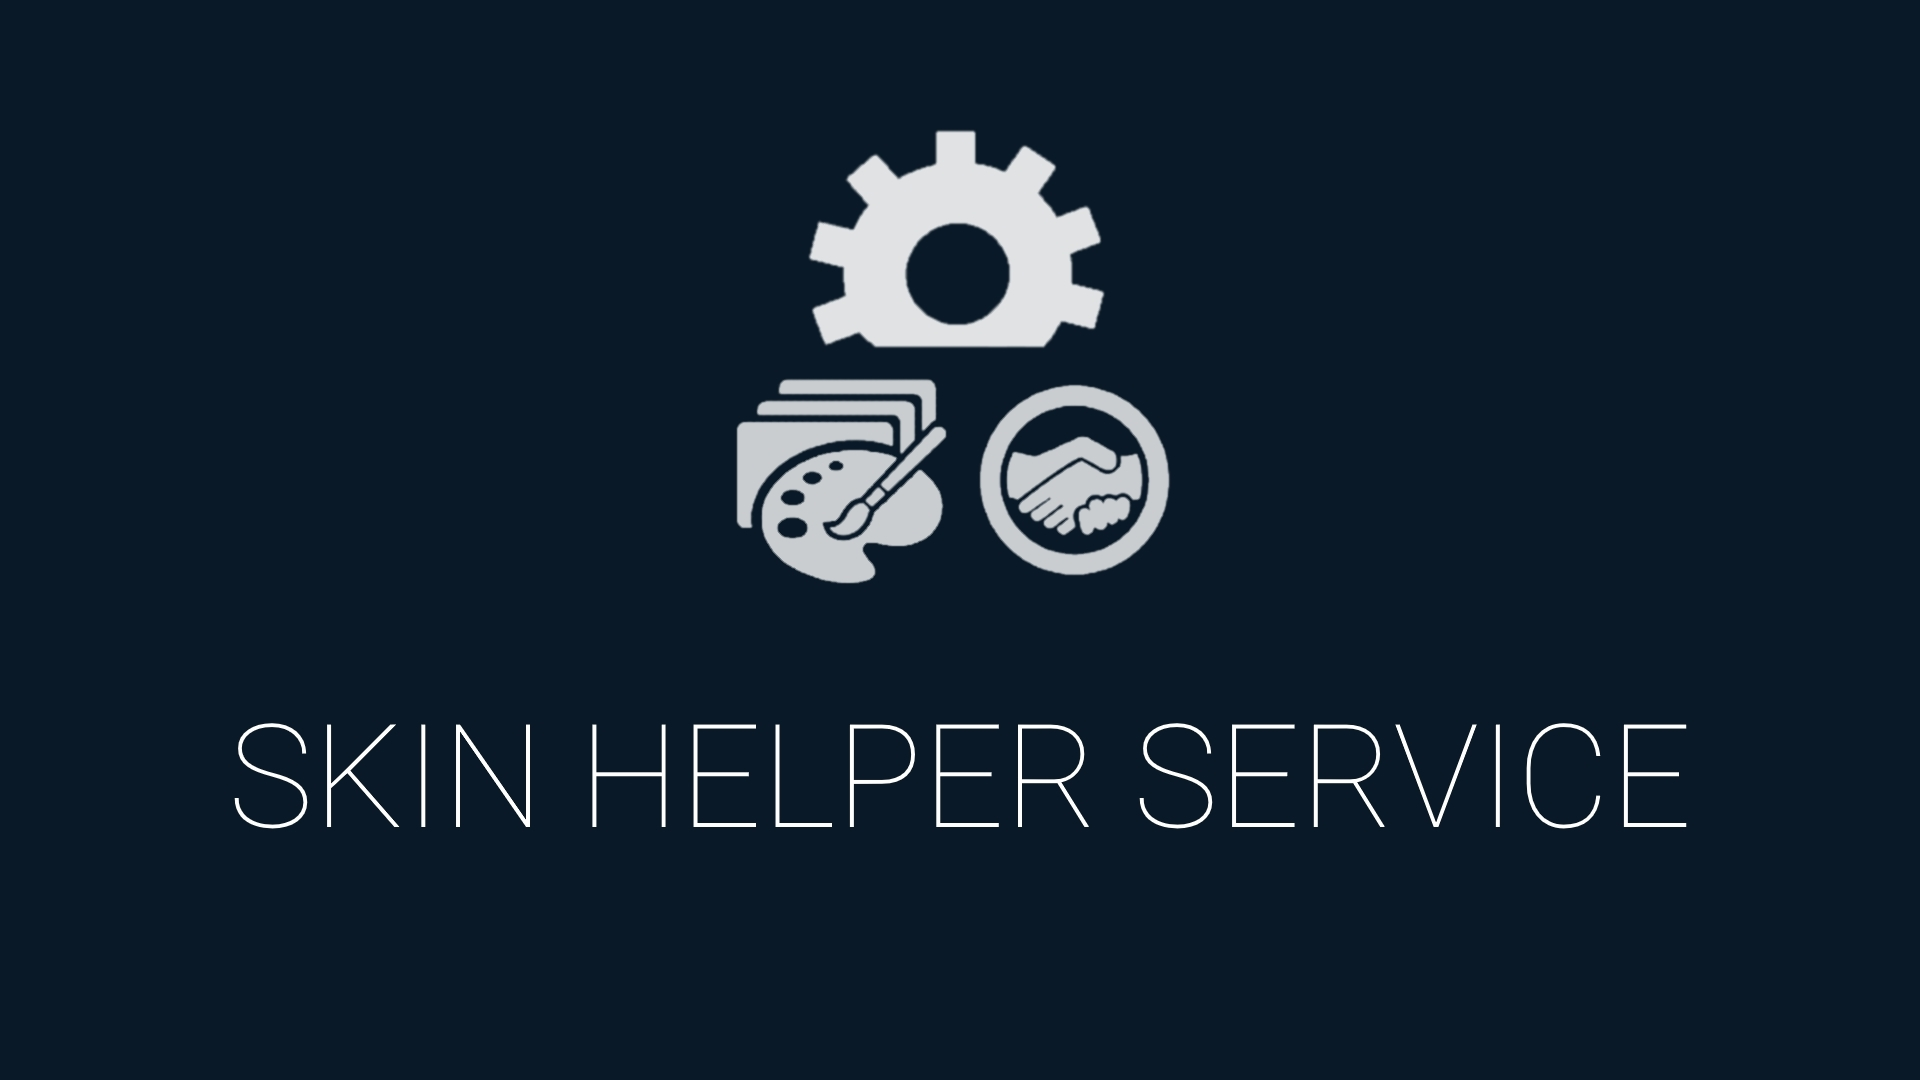
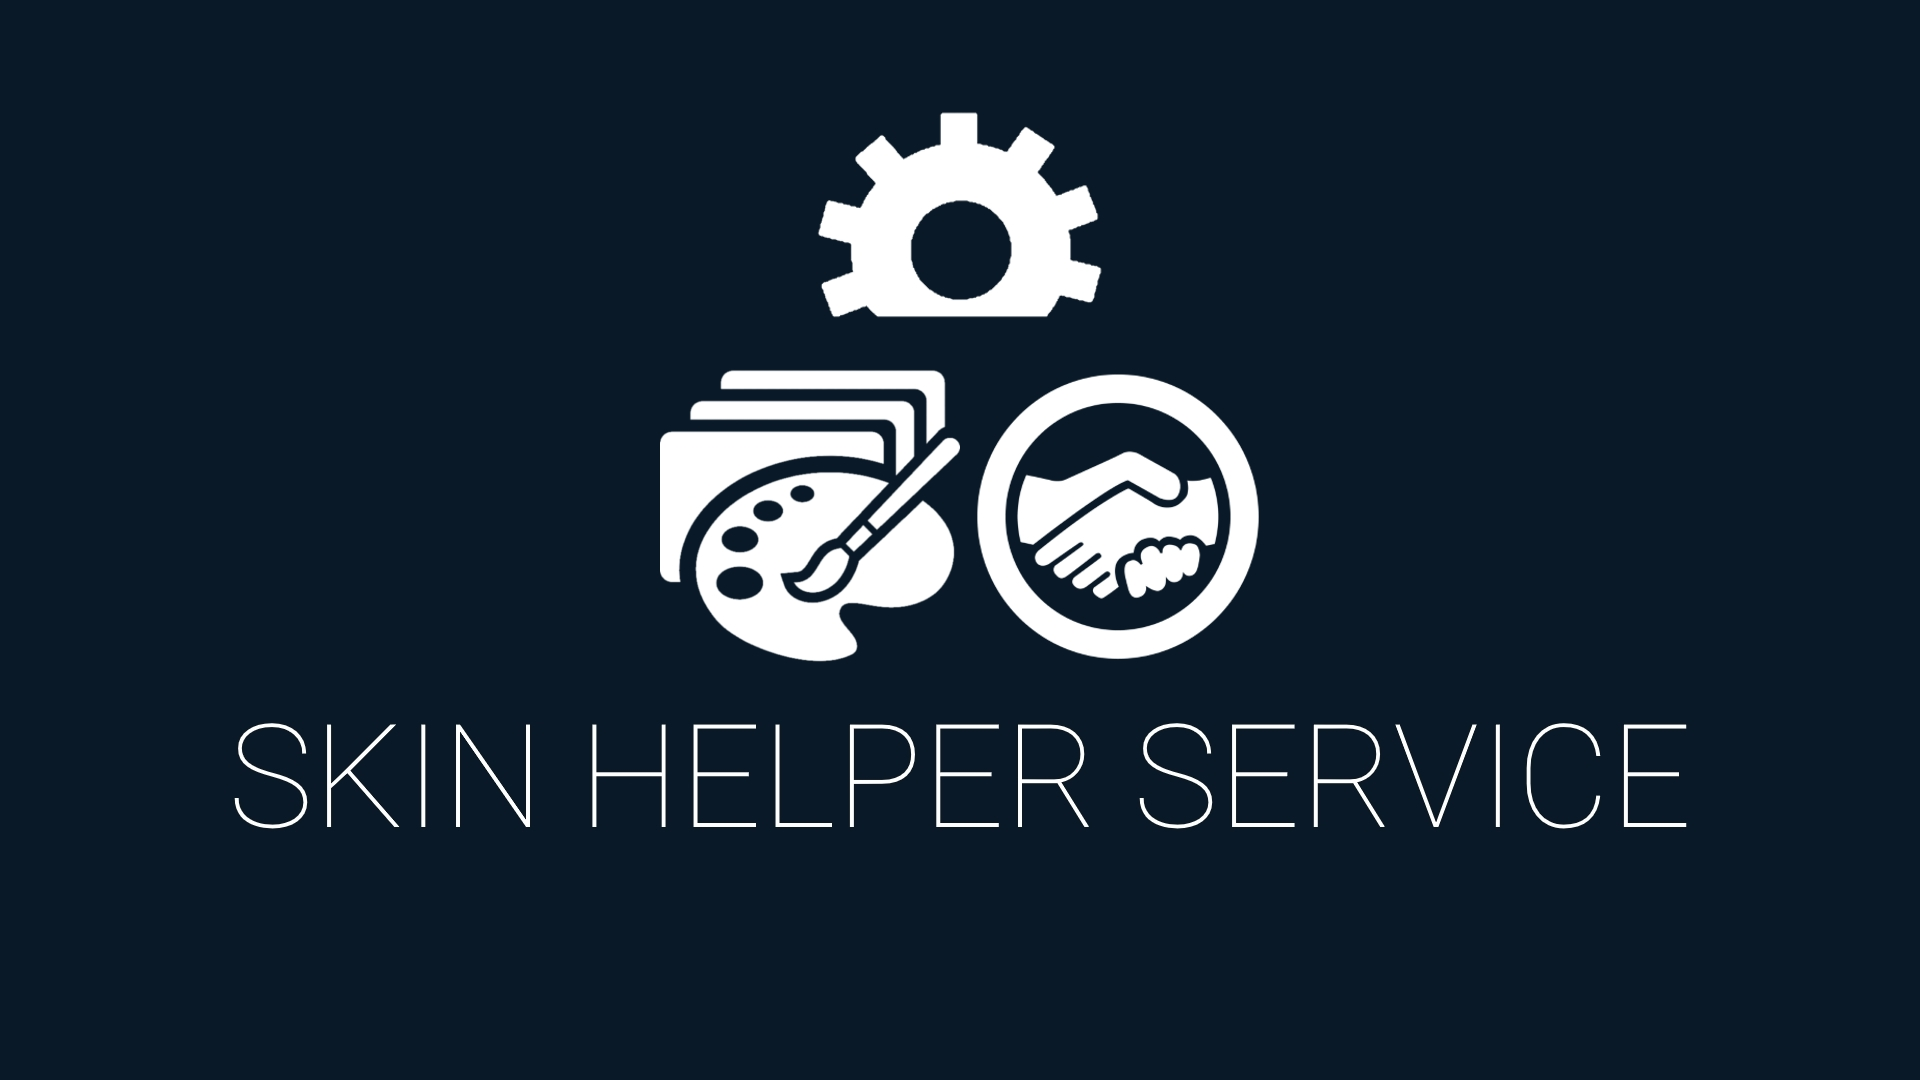
updated fanart and README added go to series level contextmenu

Changed region(s): [[0.3438, 0.0917, 0.6562, 0.6111]]

diff --git a/resources/lib/Utils.py b/resources/lib/Utils.py
@@ -97,6 +97,8 @@ def getJSON(method,params):
                 return {}
         elif jsonobject.has_key('tvshowdetails'):
             return jsonobject['tvshowdetails']
+        elif jsonobject.has_key('episodedetails'):
+            return jsonobject['episodedetails']
         elif jsonobject.has_key('moviedetails'):
             return jsonobject['moviedetails']
         elif jsonobject.has_key('setdetails'):

diff --git a/README.md b/README.md
@@ -13,7 +13,6 @@ IMPORTANT NOTE:  To use all the fancy integration options with skinshortcuts ple
 
 Latest version of skinshortcuts: https://github.com/BigNoid/script.skinshortcuts/archive/master.zip
 
-BTW: The logo and fanart image (now still from titan skin because of lack of something else) will be updated once I have some fancy new images.
 
 Thanks all for testing!
 
